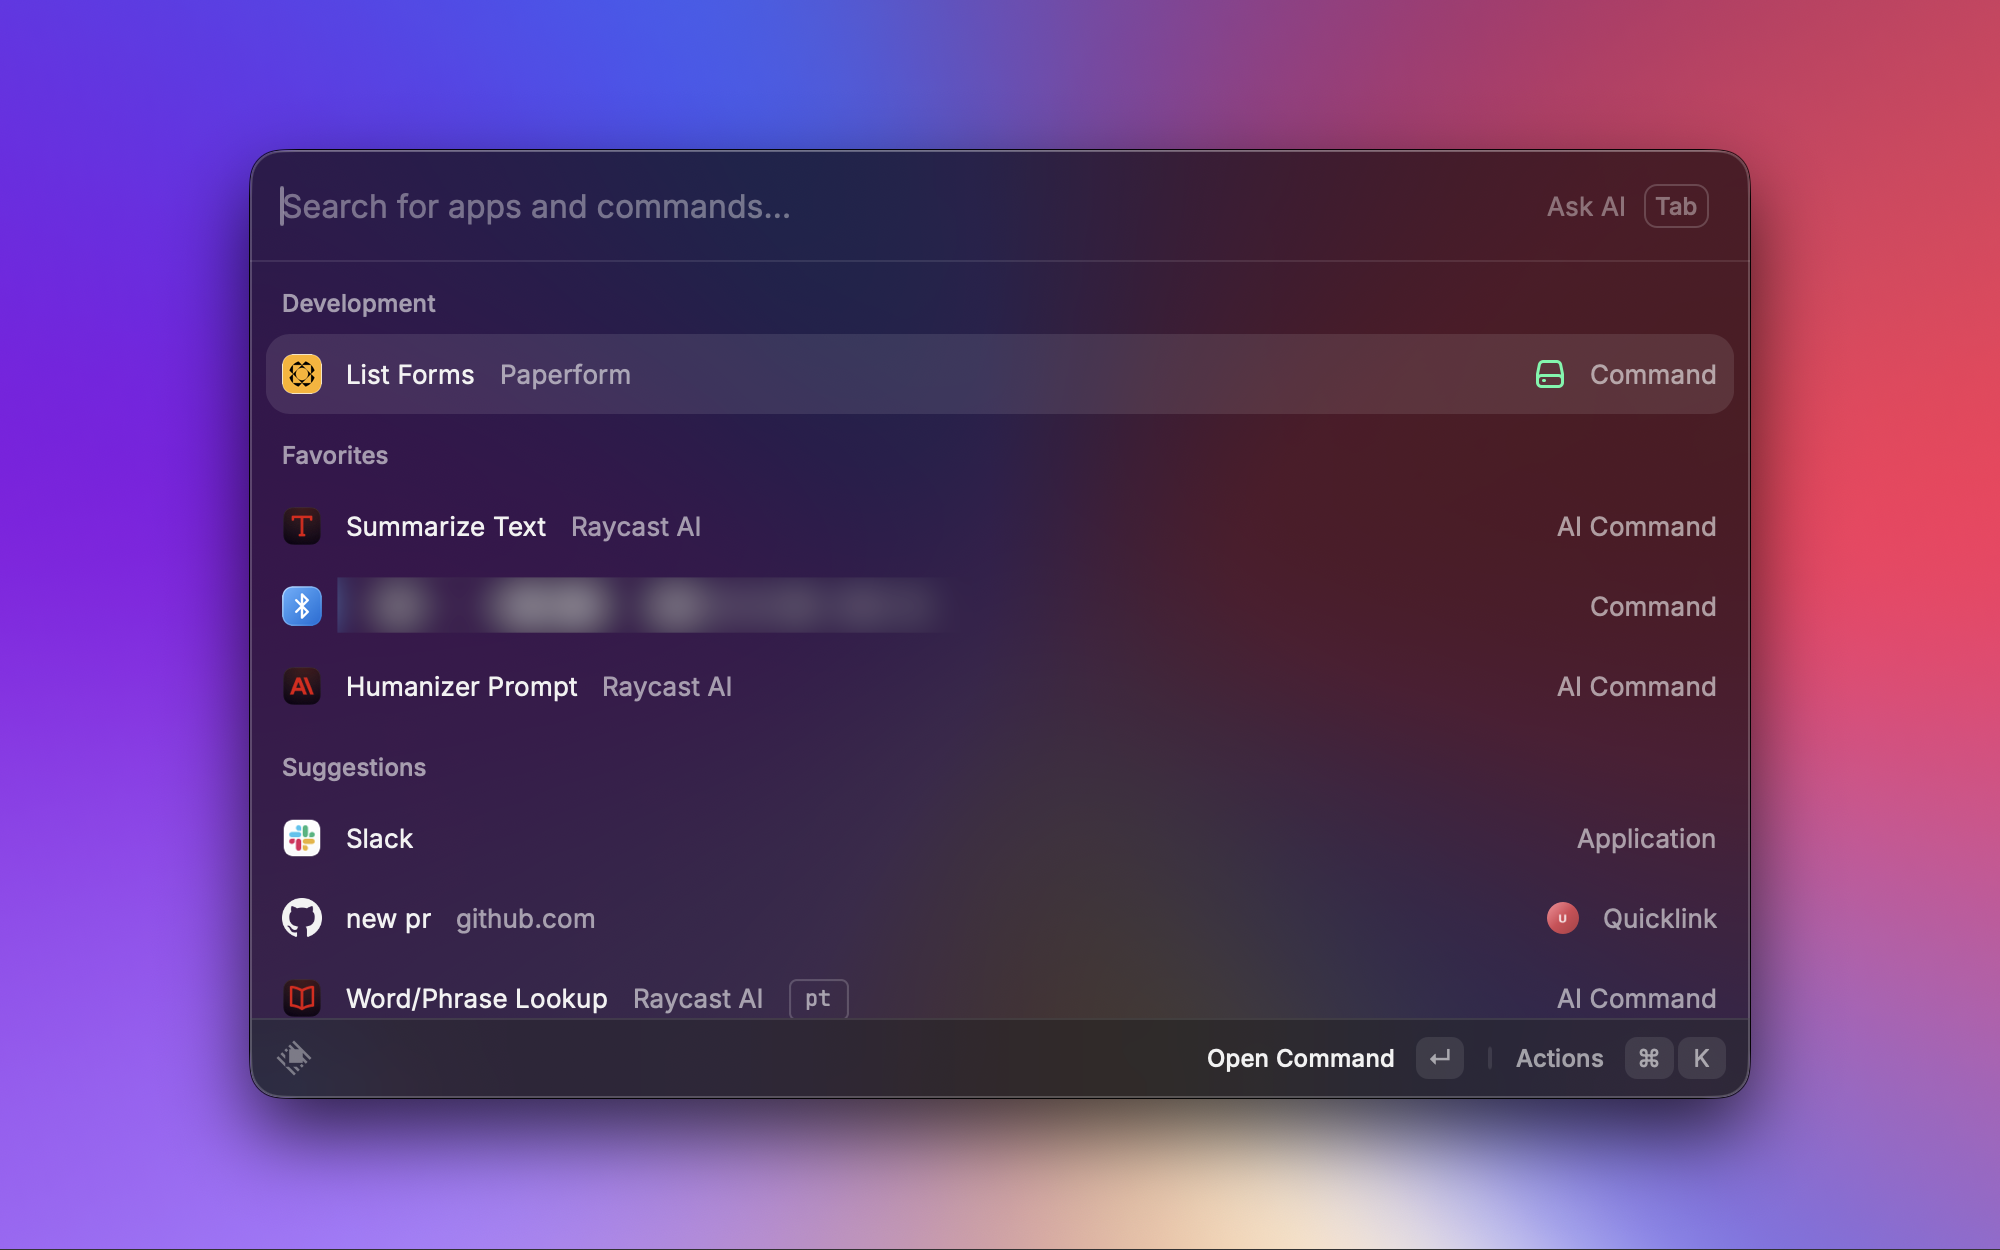
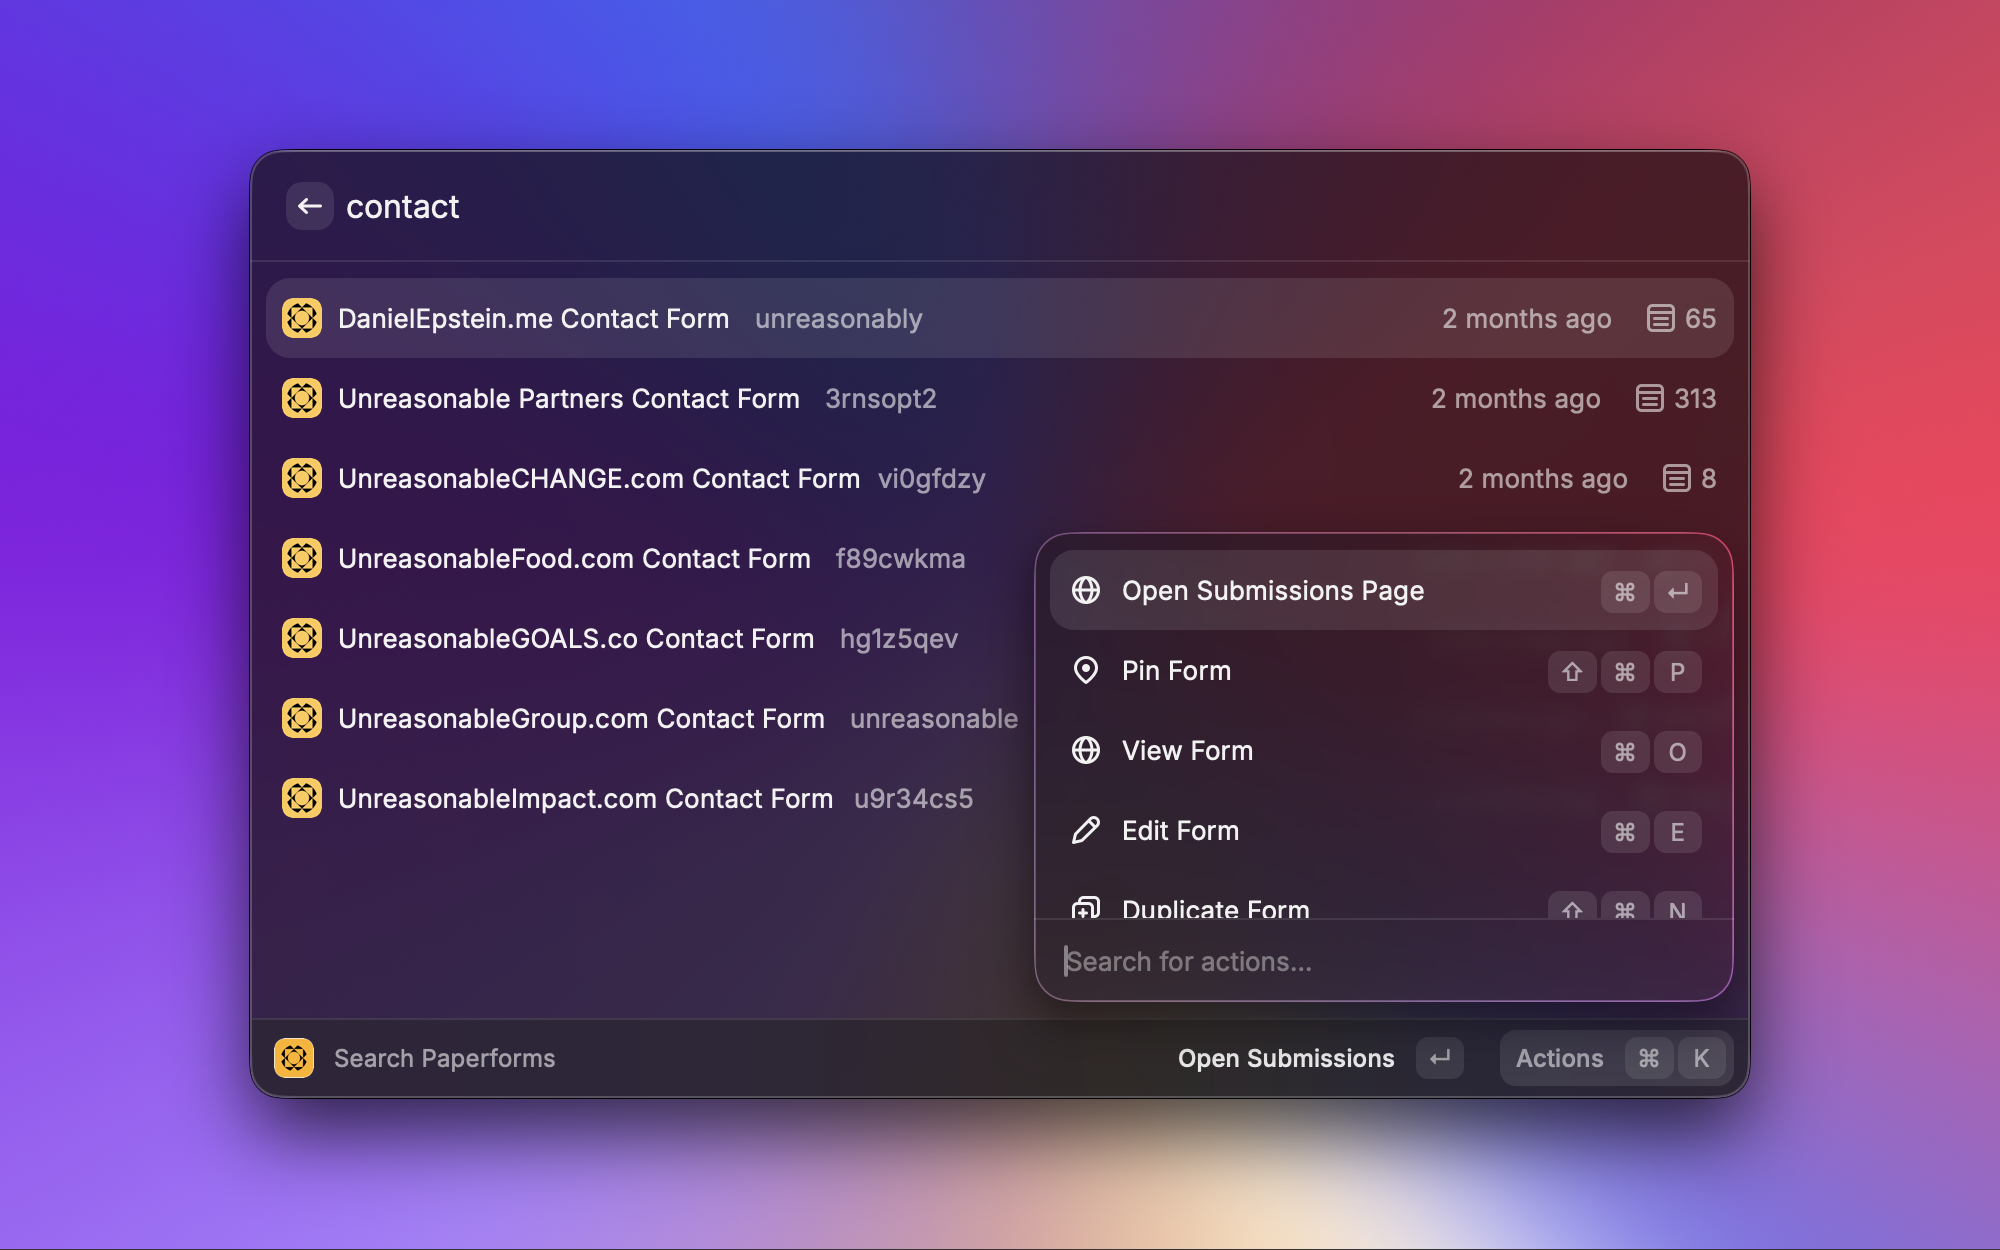
Add Business API toggle in preferences and update form submission handling

diff --git a/src/list-paperforms.tsx b/src/list-paperforms.tsx
@@ -13,7 +13,7 @@ import {
 import { LocalStorage, Color } from "@raycast/api";
 import { useCallback, useEffect, useMemo, useState } from "react";
 
-type Preferences = { apiKey: string };
+type Preferences = { apiKey: string; businessApi?: boolean };
 
 type PaperformForm = {
   id: string | number;
@@ -28,6 +28,7 @@ type PaperformForm = {
   created_at_utc?: string;
   updated_at_utc?: string;
   submission_count?: number;
+  disabled?: boolean;
   additional_urls?: {
     edit_url?: string;
     submissions_url?: string;
@@ -50,7 +51,7 @@ const SUBMISSIONS_LIMIT = 100;
 const PINS_STORAGE_KEY = "paperform_pinned_form_ids";
 
 export default function Command() {
-  const { apiKey } = getPreferenceValues<Preferences>();
+  const { apiKey, businessApi = false } = getPreferenceValues<Preferences>();
   const [searchText, setSearchText] = useState("");
   const [serverQuery, setServerQuery] = useState("");
   const [baseForms, setBaseForms] = useState<PaperformForm[]>([]);
@@ -88,6 +89,8 @@ export default function Command() {
     const arr = Array.from(ids);
     await LocalStorage.setItem(PINS_STORAGE_KEY, JSON.stringify(arr));
   }, []);
+
+  // (No local disabled persistence; Business API toggle only when enabled)
 
   // Base list loader (no search)
   useEffect(() => {
@@ -241,10 +244,11 @@ export default function Command() {
       pagination={pagination}
     >
       {sorted.map((form) => {
-        const pinned = pinnedIds.has(String(form.id));
+        const idStr = String(form.id);
+        const pinned = pinnedIds.has(idStr);
         return (
           <List.Item
-            key={String(form.id)}
+            key={idStr}
             icon={getFormIcon(form)}
             title={form.name || form.title || form.slug || String(form.id)}
             subtitle={form.custom_slug || form.slug || undefined}
@@ -254,6 +258,7 @@ export default function Command() {
                 form={form}
                 refresh={refresh}
                 isPinned={pinned}
+                businessApi={businessApi}
                 pin={(id) => {
                   setPinnedIds((prev) => {
                     const next = new Set(prev);
@@ -290,13 +295,15 @@ function buildFormAccessories(form: PaperformForm, pinned = false): List.Item.Ac
   }
 
   const live = getFormLiveStatus(form);
+  const apiDisabled = !!(form as Record<string, unknown>)?.["disabled"];
+  const closed = apiDisabled || live === false;
   if (typeof form.submission_count === "number") {
     accessories.push({
-      icon: live === false ? Icon.CircleDisabled : Icon.List,
+      icon: closed ? Icon.CircleDisabled : Icon.List,
       text: String(form.submission_count),
-      tooltip: live === false ? "No longer accepting submissions" : "Submissions",
+      tooltip: closed ? "No longer accepting submissions" : "Submissions",
     });
-  } else if (live === false) {
+  } else if (closed) {
     // Show closed state even if we don't have a count
     accessories.push({ icon: Icon.CircleDisabled, tooltip: "No longer accepting submissions" });
   }
@@ -313,7 +320,8 @@ function getFormUpdatedAt(form: PaperformForm): string | undefined {
 
 function getFormIcon(form: PaperformForm) {
   const live = getFormLiveStatus(form);
-  if (live === false) return { source: Icon.CircleDisabled, tintColor: Color.Red } as const;
+  const apiDisabled = !!(form as Record<string, unknown>)?.["disabled"];
+  if (apiDisabled || live === false) return { source: Icon.CircleDisabled, tintColor: Color.Red } as const;
   const cover = (form.cover_image_url || "").trim();
   if (cover) return { source: cover, mask: Image.Mask.RoundedRectangle } as const;
   return { source: "extension_icon.png", mask: Image.Mask.RoundedRectangle } as const;
@@ -341,23 +349,31 @@ function getFormLiveStatus(form: PaperformForm): boolean | undefined {
   return undefined;
 }
 
+// Local disabled is handled in Command via LocalStorage; API-disabled not used without Business plan
+
 function FormActions({
   form,
   refresh,
   pin,
   unpin,
   isPinned,
+  businessApi,
 }: {
   form: PaperformForm;
   refresh: () => void;
   pin: (id: string) => void;
   unpin: (id: string) => void;
   isPinned: boolean;
+  businessApi: boolean;
 }) {
   const linkSlug = (form.custom_slug || form.slug || String(form.id)) as string;
   const submissionsUrl = form.additional_urls?.submissions_url || `https://paperform.co/submissions/${linkSlug}`;
   const editUrl = form.additional_urls?.edit_url || `https://paperform.co/edit/${linkSlug}`;
+  const duplicateUrl = form.additional_urls?.duplicate_url;
   const viewUrl = form.url || `https://${linkSlug}.paperform.co`;
+  const { apiKey } = getPreferenceValues<Preferences>();
+  const idForApi = String(form.id || linkSlug);
+  const remoteDisabled = !!(form as Record<string, unknown>)?.["disabled"];
   return (
     <ActionPanel>
       <Action.Push
@@ -393,6 +409,55 @@ function FormActions({
         icon={Icon.Pencil}
         shortcut={{ modifiers: ["cmd"], key: "e" }}
       />
+      {duplicateUrl ? (
+        <Action.OpenInBrowser
+          title="Duplicate Form"
+          url={duplicateUrl}
+          icon={Icon.Duplicate}
+          shortcut={{ modifiers: ["cmd", "shift"], key: "n" }}
+        />
+      ) : null}
+      {businessApi ? (
+        remoteDisabled ? (
+          <Action
+            title="Enable Submissions"
+            icon={Icon.Play}
+            shortcut={{ modifiers: ["cmd", "shift"], key: "x" }}
+            onAction={async () => {
+              const toast = await showToast({ style: Toast.Style.Animated, title: "Enabling submissions..." });
+              try {
+                await apiFetchJson(apiKey!, `/forms/${encodeURIComponent(idForApi)}`, "PUT", { disabled: false });
+                await showToast({ style: Toast.Style.Success, title: "Submissions enabled" });
+                refresh();
+              } catch (e) {
+                const err = e as Error;
+                await showToast({ style: Toast.Style.Failure, title: "Failed to enable", message: err.message });
+              } finally {
+                toast.hide();
+              }
+            }}
+          />
+        ) : (
+          <Action
+            title="Disable Submissions"
+            icon={Icon.Stop}
+            shortcut={{ modifiers: ["cmd", "shift"], key: "x" }}
+            onAction={async () => {
+              const toast = await showToast({ style: Toast.Style.Animated, title: "Disabling submissions..." });
+              try {
+                await apiFetchJson(apiKey!, `/forms/${encodeURIComponent(idForApi)}`, "PUT", { disabled: true });
+                await showToast({ style: Toast.Style.Success, title: "Submissions disabled" });
+                refresh();
+              } catch (e) {
+                const err = e as Error;
+                await showToast({ style: Toast.Style.Failure, title: "Failed to disable", message: err.message });
+              } finally {
+                toast.hide();
+              }
+            }}
+          />
+        )
+      ) : null}
       <Action.CopyToClipboard title="Copy Form URL" content={viewUrl} shortcut={{ modifiers: ["cmd"], key: "c" }} />
       <Action.CopyToClipboard
         title="Copy Form ID"
@@ -669,8 +734,57 @@ async function apiFetch<T>(apiKey: string, path: string, retries = 1): Promise<T
     throw new Error("rate_limited");
   }
   if (!res.ok) {
+    let message = `HTTP ${res.status}`;
+    try {
+      const text = await res.text();
+      if (text) message = `${message}: ${text.slice(0, 200)}`;
+    } catch {
+      // ignore
+    }
+    if (res.status === 403) message = "Update form requires Business API access";
+    if (res.status === 404) message = "Form not found or insufficient permissions";
+    throw new Error(message);
+  }
+  return (await res.json()) as T;
+}
+
+async function apiFetchJson<T>(
+  apiKey: string,
+  path: string,
+  method: "PUT" | "POST" | "PATCH" | "DELETE",
+  body: unknown,
+  retries = 1,
+): Promise<T> {
+  const res = await fetch(`${API_BASE}${path}`, {
+    method,
+    headers: {
+      Authorization: `Bearer ${apiKey}`,
+      "Content-Type": "application/json",
+    },
+    body: JSON.stringify(body ?? {}),
+  });
+  if (res.status === 401) {
+    const toast = await showToast({ style: Toast.Style.Failure, title: "Unauthorized", message: "Check API Key" });
+    toast.primaryAction = {
+      title: "Open Developer Page",
+      onAction: () => open("https://paperform.co/account/developer"),
+    };
+    throw new Error("unauthorized");
+  }
+  if (res.status === 429) {
+    const retryAfter = res.headers.get("Retry-After");
+    const waitMs = (retryAfter ? Number(retryAfter) : 1) * 1000;
+    if (retries > 0) {
+      await sleep(waitMs);
+      return apiFetchJson<T>(apiKey, path, method, body, retries - 1);
+    }
+    await showToast({ style: Toast.Style.Failure, title: "Rate limited", message: "Please try again shortly" });
+    throw new Error("rate_limited");
+  }
+  if (!res.ok) {
     throw new Error(`HTTP ${res.status}`);
   }
+  if (res.status === 204) return {} as T;
   return (await res.json()) as T;
 }
 
